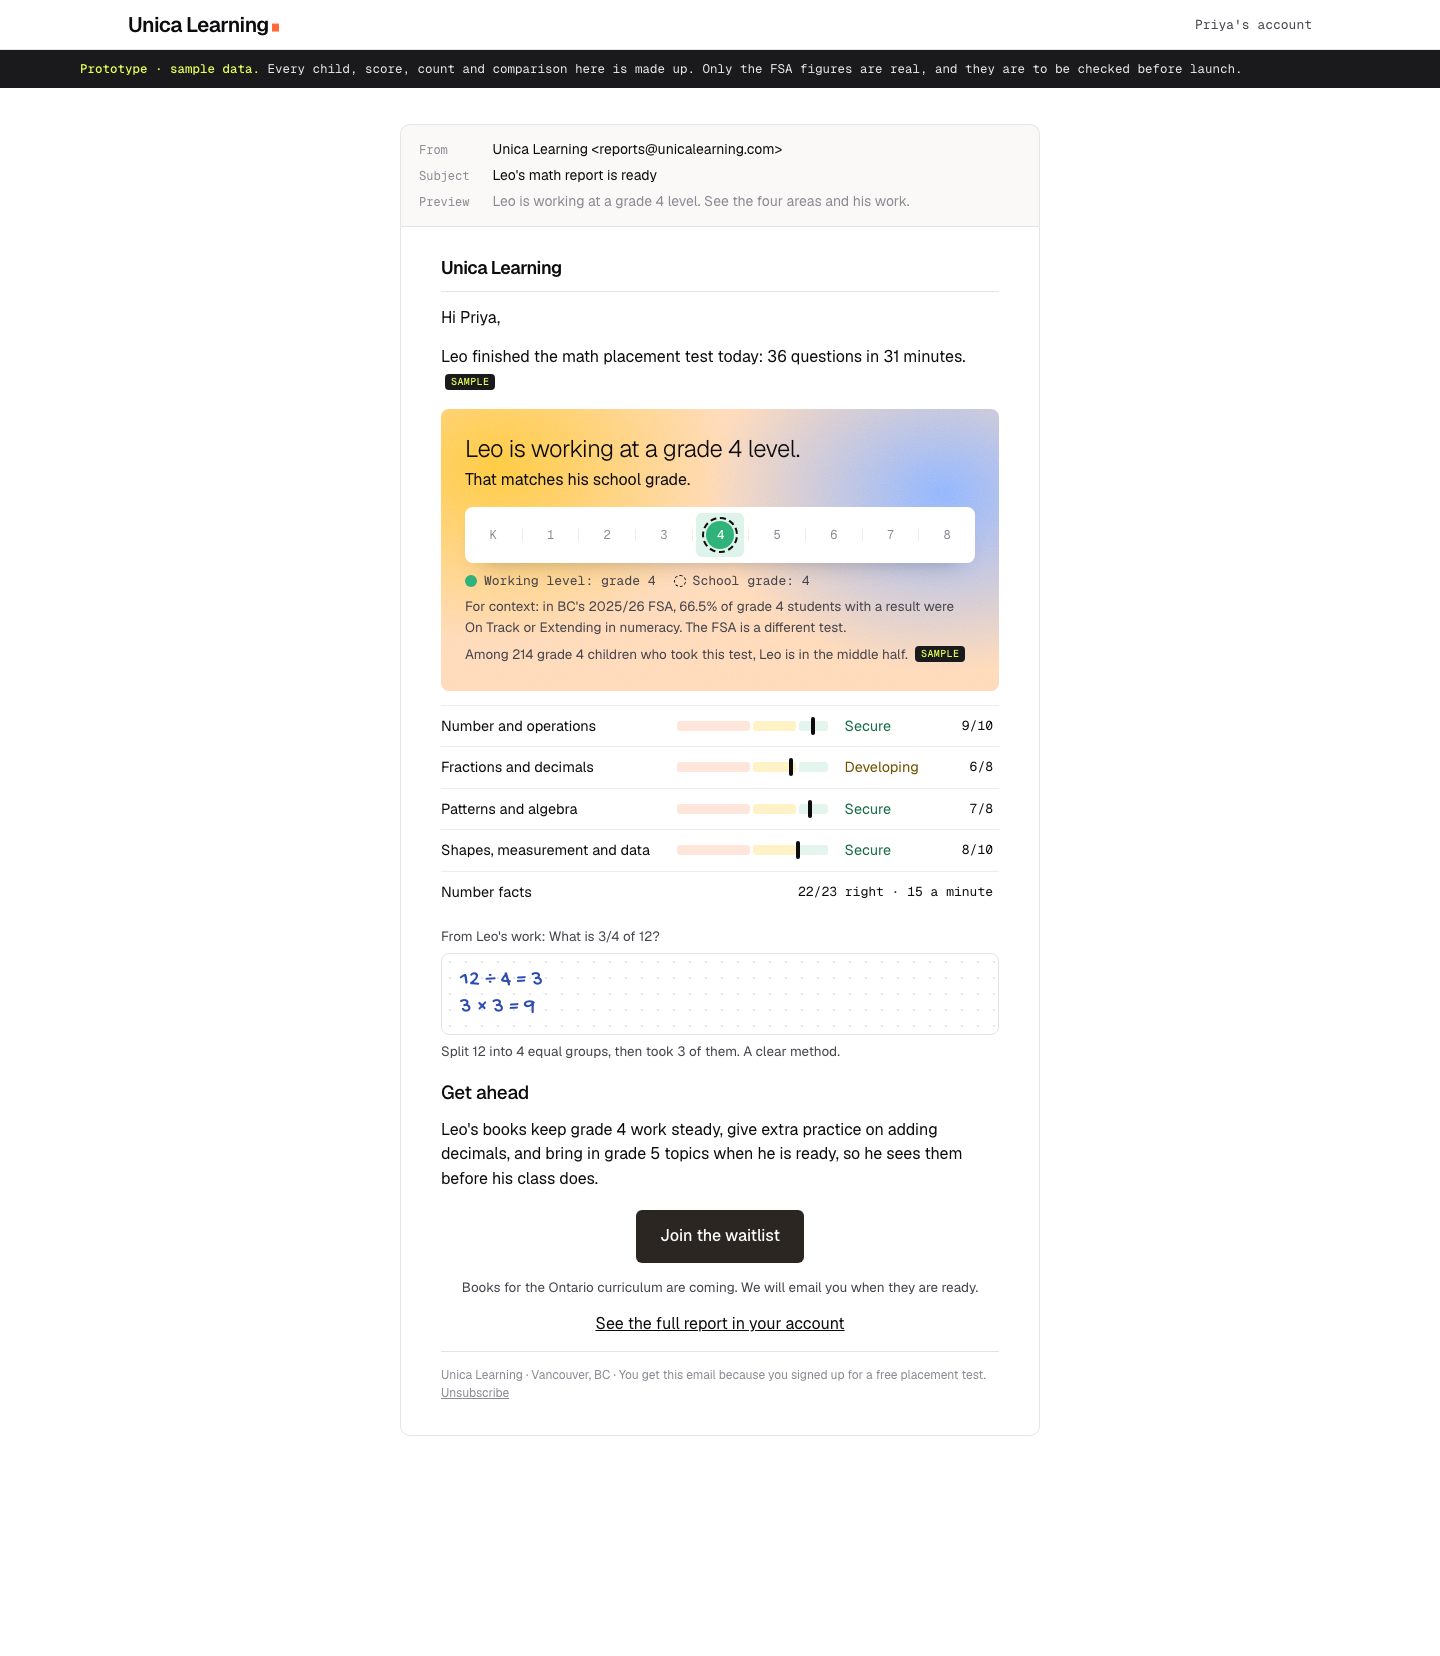
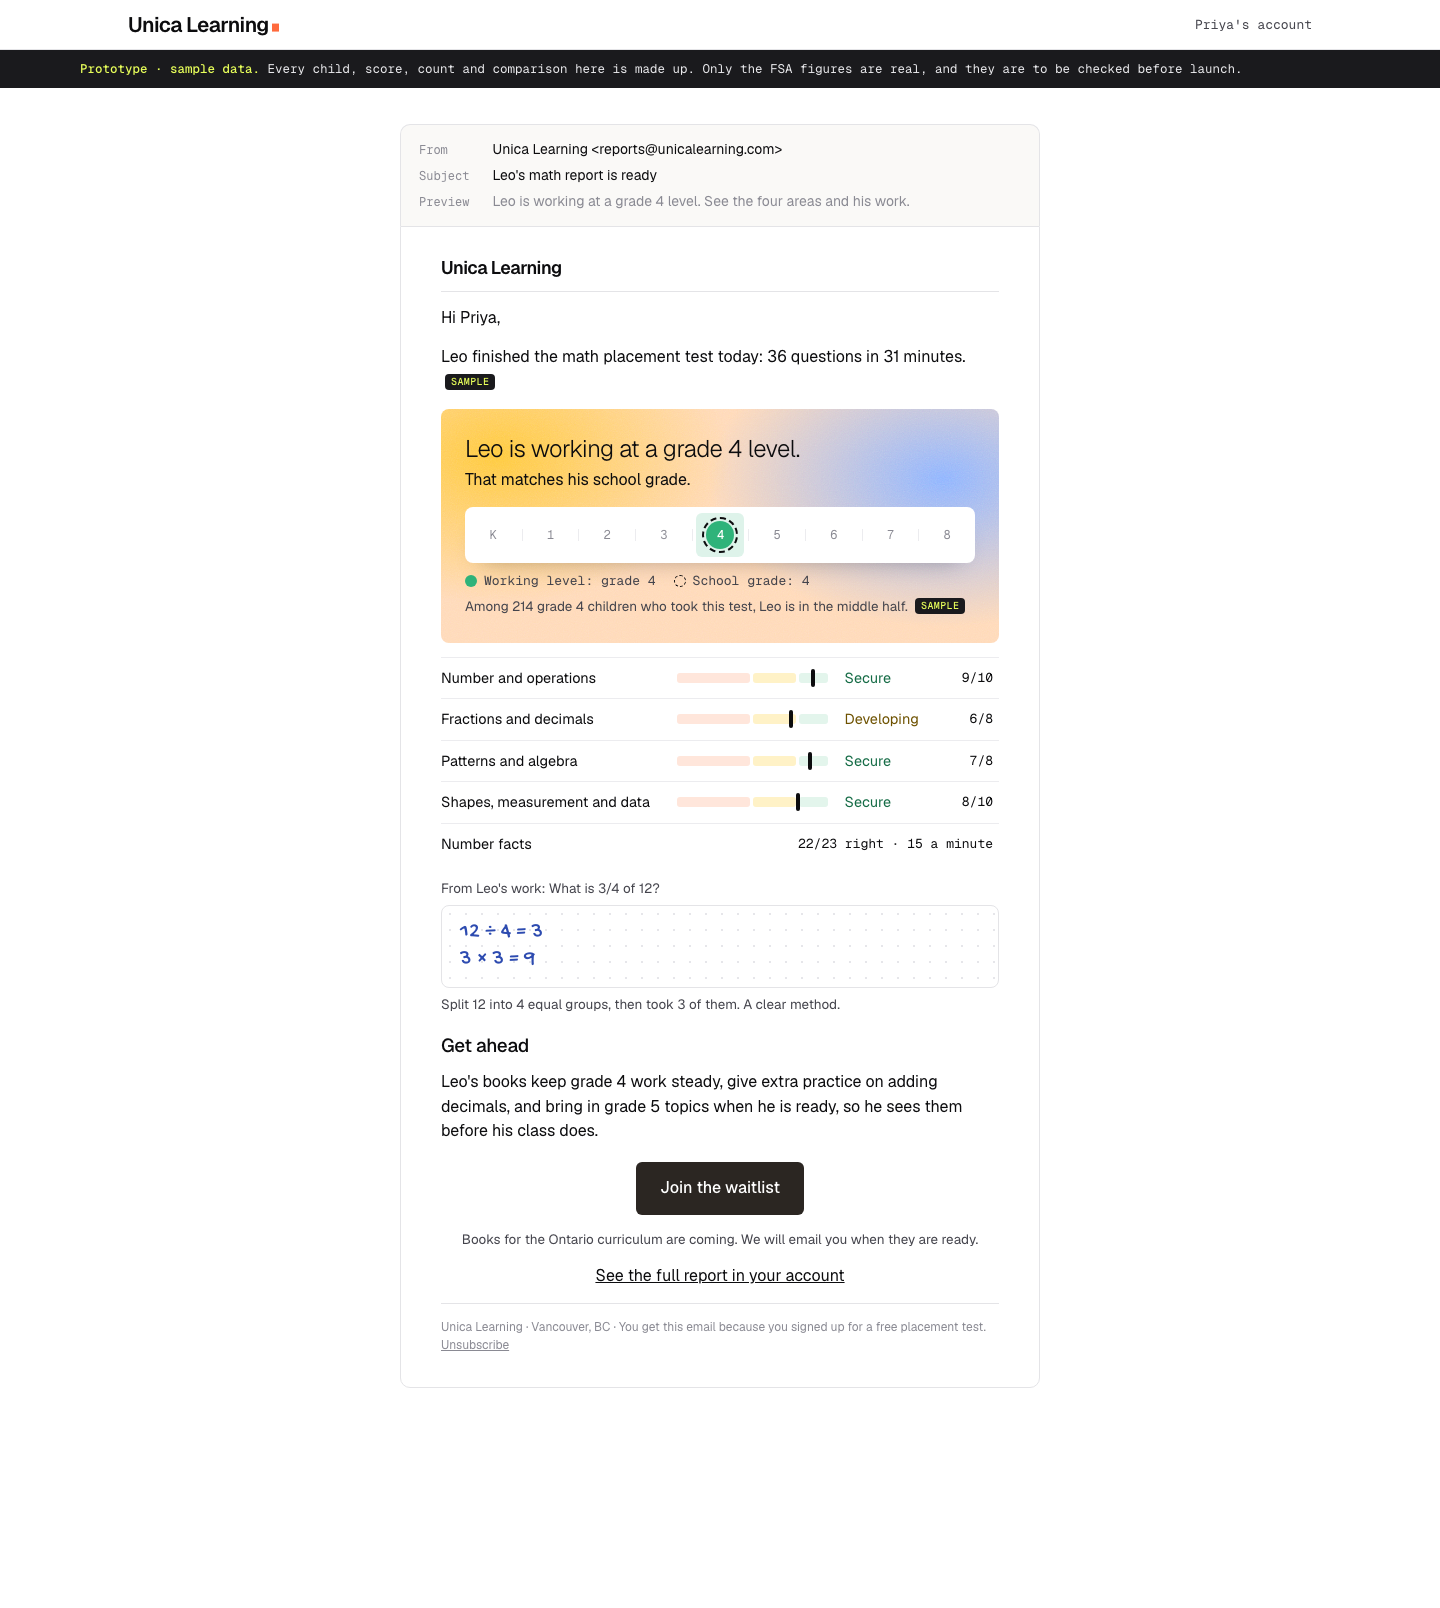
Prototype: FSA line for BC families only (D-087)

diff --git a/src/components/report-prototype/variants.tsx b/src/components/report-prototype/variants.tsx
@@ -45,7 +45,7 @@ export function VariantA({ c, stage, prov, helped }: ReportProps) {
         <h1>{levelSentence(c)}</h1>
         <p className="a-sub">{verdictSentence(c)}</p>
         <Scale c={c} />
-        <FsaLine c={c} />
+        <FsaLine c={c} prov={prov} />
         <Comparison c={c} stage={stage} />
         {helped && <HelpWarning c={c} />}
       </section>
@@ -109,7 +109,7 @@ export function VariantB({ c, stage, prov, helped }: ReportProps) {
       </section>
       <div className="b-body">
         <div className="b-context">
-          <FsaLine c={c} />
+          <FsaLine c={c} prov={prov} />
           <Comparison c={c} stage={stage} />
           {helped && <HelpWarning c={c} />}
         </div>
@@ -181,7 +181,7 @@ export function VariantC({ c, stage, prov, helped }: ReportProps) {
         <section className="c-tile c-scale">
           <p className="rp-k">Against the grade scale</p>
           <Scale c={c} />
-          <FsaLine c={c} />
+          <FsaLine c={c} prov={prov} />
           <Comparison c={c} stage={stage} />
         </section>
         {c.strands.map((s) => (
@@ -235,7 +235,7 @@ export function VariantD({ c, stage, prov, helped }: ReportProps) {
         <h1>{levelSentence(c)}</h1>
         <p className="d-lead">{verdictSentence(c)} {c.verdict === "behind" ? `That is a starting point, not a grade. It shows where the books begin.` : c.verdict === "ahead" ? `${c.name} is ready for harder work.` : `${c.name} is right where ${c.they} should be.`}</p>
         <Scale c={c} />
-        <FsaLine c={c} />
+        <FsaLine c={c} prov={prov} />
         <Comparison c={c} stage={stage} />
         {helped && <HelpWarning c={c} />}
       </section>
@@ -305,7 +305,7 @@ export function VariantE({ c, stage, prov, helped }: ReportProps) {
           <Comparison c={c} stage={stage} compact />
         </div>
       </header>
-      <FsaLine c={c} />
+      <FsaLine c={c} prov={prov} />
       {helped && <HelpWarning c={c} />}
 
       <section className="e-rows">

diff --git a/src/components/report-prototype/report-card.tsx b/src/components/report-prototype/report-card.tsx
@@ -122,7 +122,7 @@ export function VariantA2({ c, stage, prov, helped }: ReportProps) {
         <p className="a-sub">{verdictSentence(c)}</p>
         <Scale c={c} />
         <div className="ac-context">
-          <FsaLine c={c} />
+          <FsaLine c={c} prov={prov} />
           <Comparison c={c} stage={stage} />
         </div>
         {helped && <HelpWarning c={c} />}
@@ -158,9 +158,9 @@ export function VariantA3({ c, stage, prov, helped }: ReportProps) {
         <p className="a-sub">{verdictSentence(c)}</p>
         <Scale c={c} />
       </section>
-      {(stage > 1 || helped || c.grade === 4 || c.grade === 7) && (
+      {(stage > 1 || helped || (prov === "BC" && (c.grade === 4 || c.grade === 7))) && (
         <div className="ac-context ac-context-pad">
-          <FsaLine c={c} />
+          <FsaLine c={c} prov={prov} />
           <Comparison c={c} stage={stage} />
           {helped && <HelpWarning c={c} />}
         </div>
@@ -196,7 +196,7 @@ export function VariantA4({ c, stage, prov, helped }: ReportProps) {
         <p className="a-sub">{verdictSentence(c)}</p>
         <Scale c={c} />
         <div className="ac-context">
-          <FsaLine c={c} />
+          <FsaLine c={c} prov={prov} />
           <Comparison c={c} stage={stage} />
         </div>
         {helped && <HelpWarning c={c} />}
@@ -242,7 +242,7 @@ export function VariantA5({ c, stage, prov, helped }: ReportProps) {
           </div>
         </aside>
         <div className="ac-main">
-          <FsaLine c={c} />
+          <FsaLine c={c} prov={prov} />
           {helped && <HelpWarning c={c} />}
           <section className="ac-sec">
             <h2>By area</h2>

diff --git a/src/components/report-prototype/email.tsx b/src/components/report-prototype/email.tsx
@@ -27,7 +27,7 @@ export function ReportEmail({ c, stage, prov, helped, variant }: ReportProps & {
           <p className="m-level">{levelSentence(c)}</p>
           <p>{verdictSentence(c)}</p>
           {variant !== "A" && variant !== "D" && <Scale c={c} />}
-          {FSA[c.grade] && <p className="m-small">For context: in BC&apos;s 2025/26 FSA, {FSA[c.grade]}% of grade {c.grade} students with a result were On Track or Extending in numeracy. The FSA is a different test.</p>}
+          {prov === "BC" && FSA[c.grade] && <p className="m-small">For context: in BC&apos;s 2025/26 FSA, {FSA[c.grade]}% of grade {c.grade} students with a result were On Track or Extending in numeracy. The FSA is a different test.</p>}
           {stage === 2 && <p className="m-small">Among {n} grade {c.grade} children who took this test, {c.name} is in the {BANDS[c.band].toLowerCase()}. <Sample /></p>}
           {stage === 3 && <p className="m-small">{c.name} scored higher than {c.percentile}% of {n} grade {c.grade} children who took this test. <Sample /></p>}
         </div>

diff --git a/src/components/report-prototype/parts.tsx b/src/components/report-prototype/parts.tsx
@@ -62,8 +62,9 @@ export function Scale({ c, labels = true }: { c: Child; labels?: boolean }) {
   );
 }
 
-export function FsaLine({ c }: { c: Child }) {
-  const v = FSA[c.grade];
+// BC families only (D-087): the FSA is a BC test, so it is no context for another province.
+export function FsaLine({ c, prov }: { c: Child; prov: Province }) {
+  const v = prov === "BC" ? FSA[c.grade] : undefined;
   if (!v) return null;
   return (
     <p className="rp-fsa">
